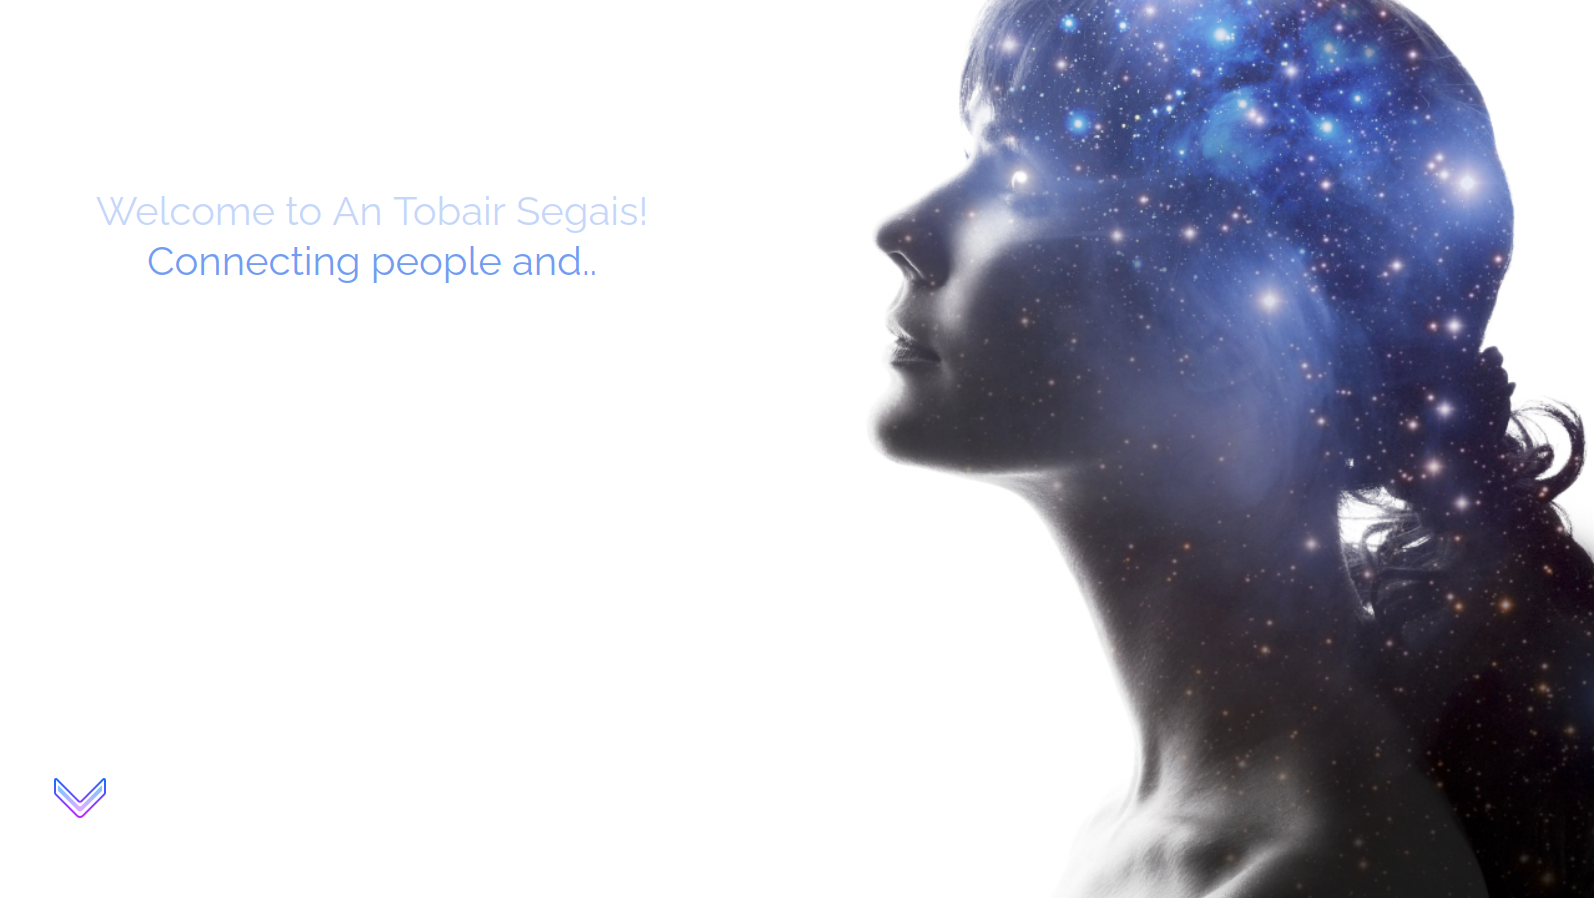
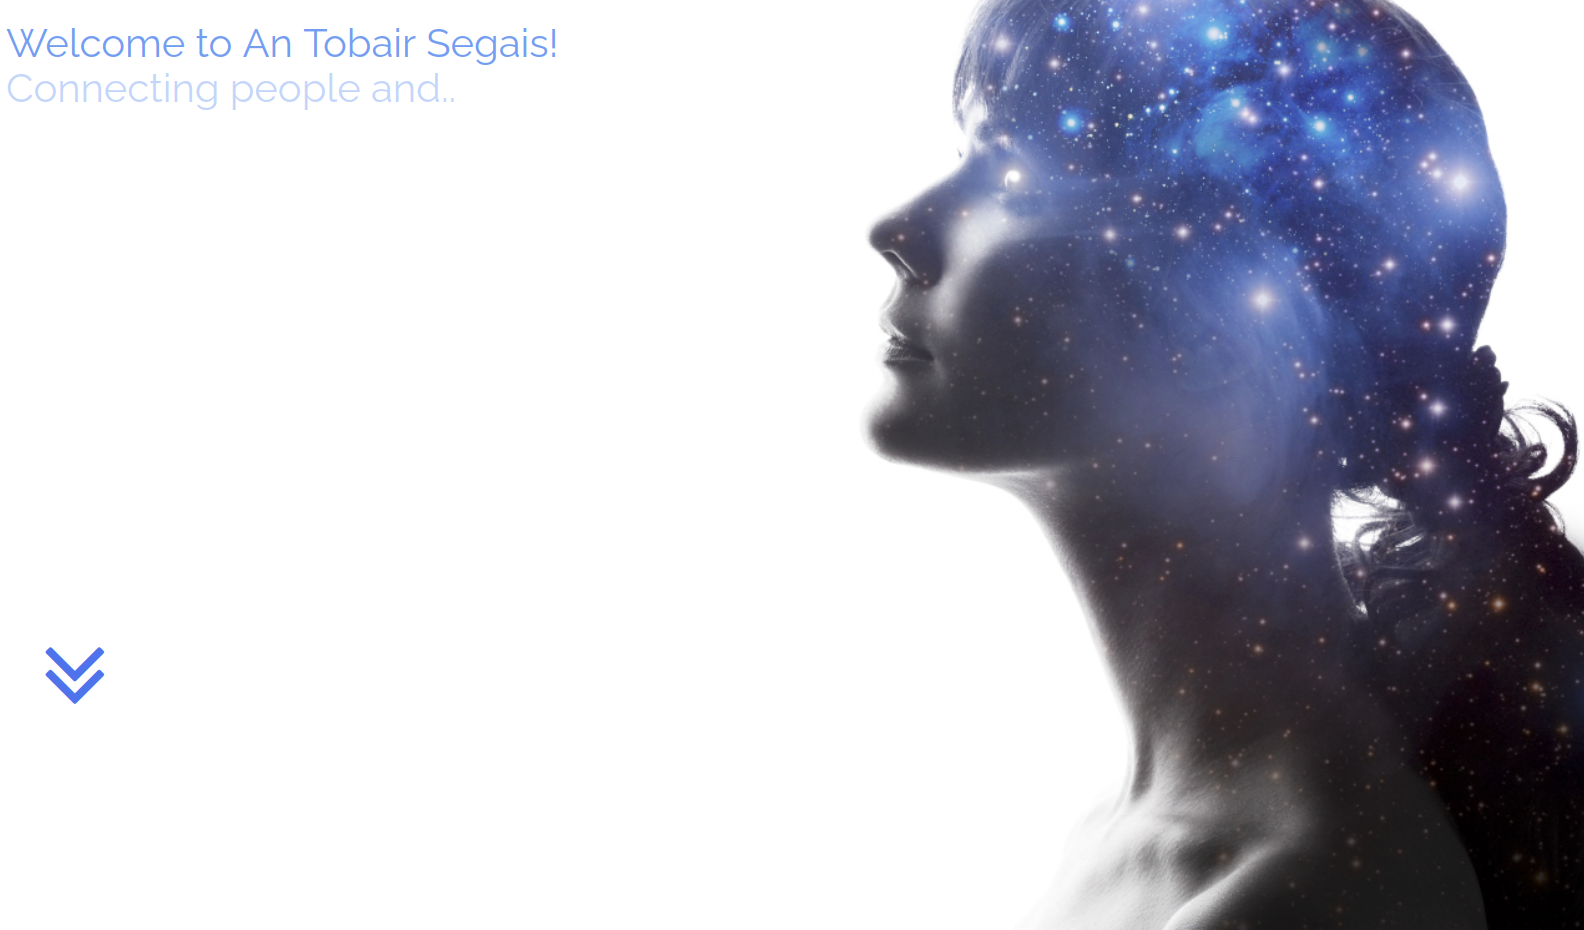
Readme: Update images and add wireframe

diff --git a/README.md b/README.md
@@ -23,10 +23,13 @@ An Tobair Segair - Interpreting Mentors is a portfolio site for an interpreter a
     -   #### Colour Scheme
         -   The two main colours used are blue, white, and violet.
     -   #### Typography
-        -   The Raleway font is the main font used throughout the whole website with Sans Serif as the fallback font in case for any reason the font isn't being imported into the site correctly.
+        -   The Raleway font is the main font used throughout the website with Sans Serif as the fallback font in case the font isn't being imported into the site correctly. Monaco with a backup of MonoSpace is used for the logo text.
     -   #### Imagery
         -   The large, landing image is designed to be striking, thought provoking and catch the user's attention.
- 
+    -   #### Wireframe
+        - This wireframe was used initially to get an idea of the style and layout of the page would be.
+        ![Wireframe](https://share.balsamiq.com/c/8JGqwnBHLL4nU4YhoQatUX.png)
+
 ## FEATURES
 
 ### EXISTING FEATURES
